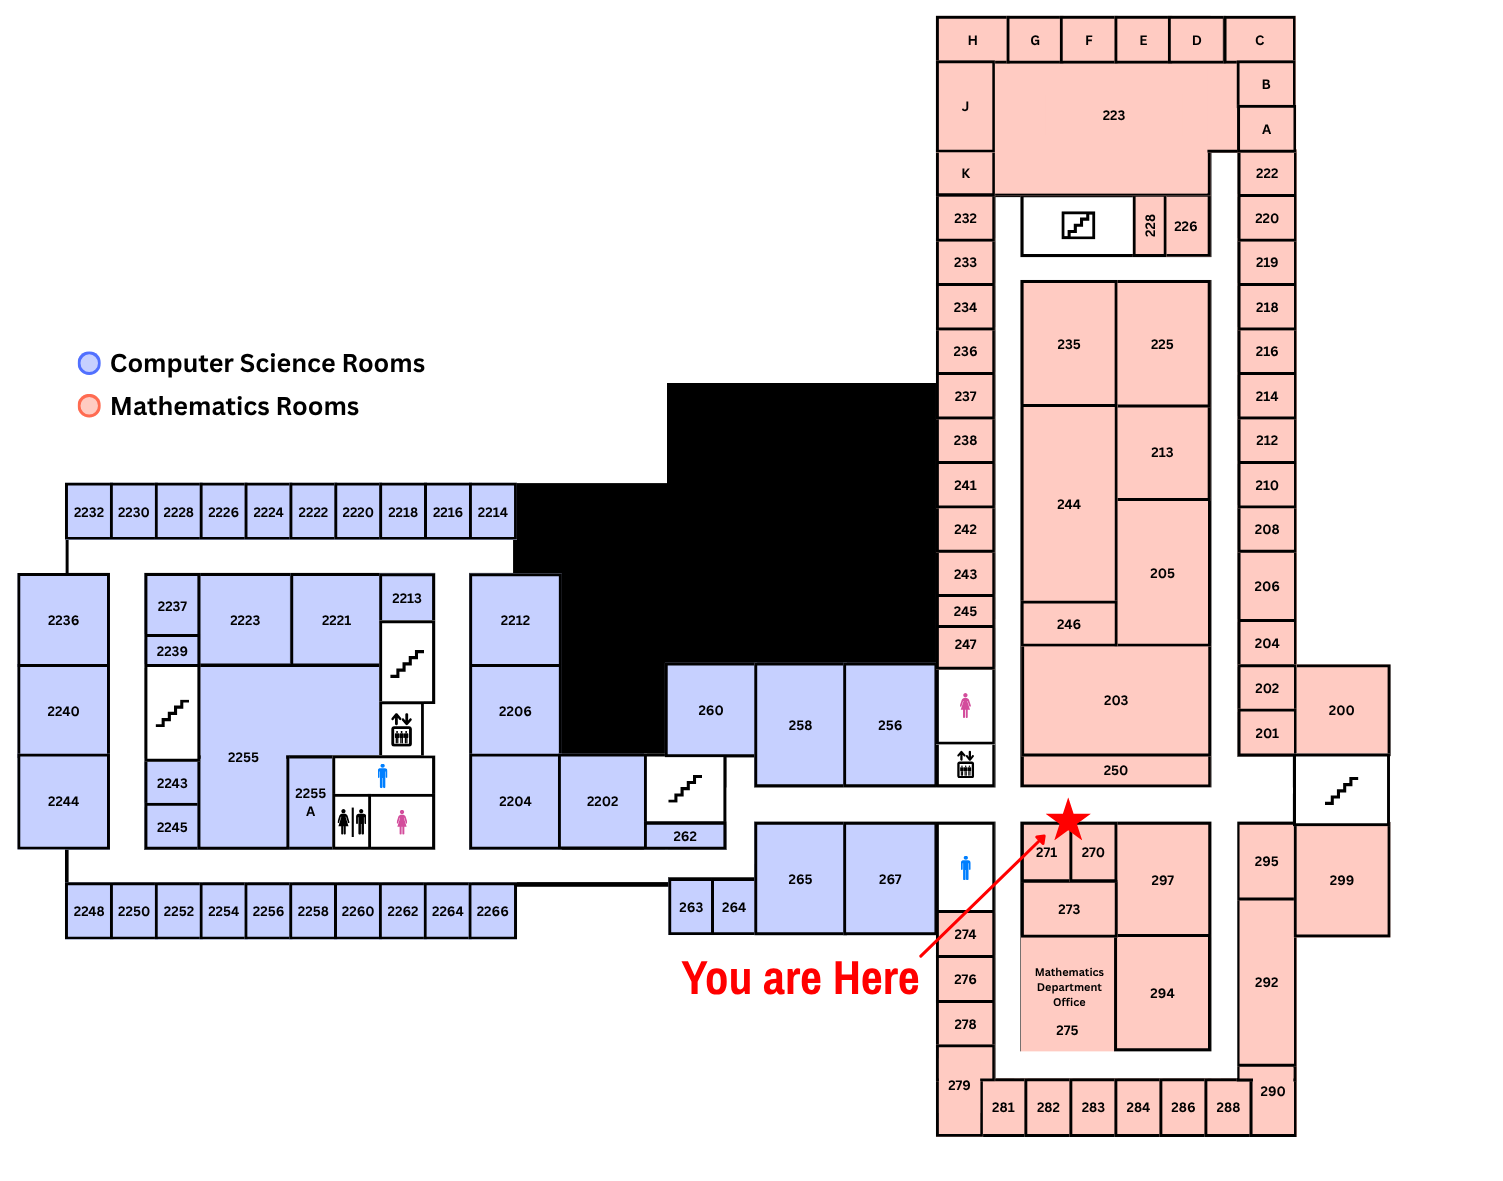
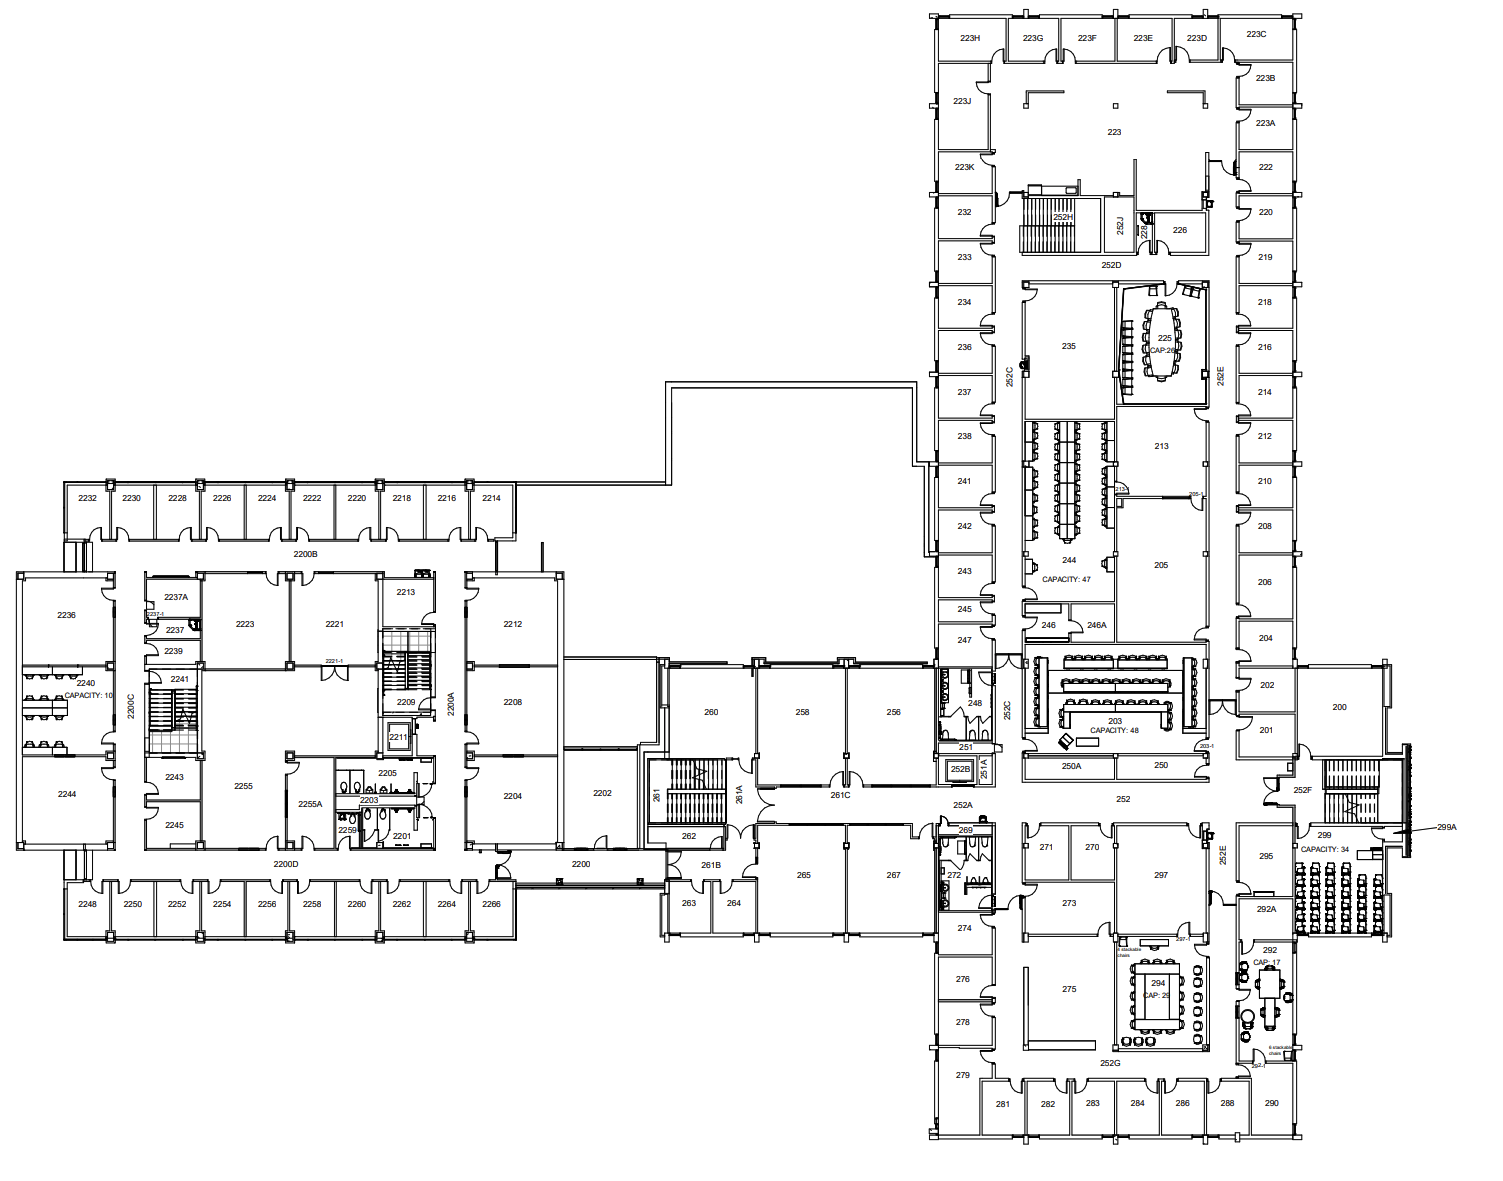
Add files via upload

diff --git a/assets/README.md b/assets/README.md
@@ -7,3 +7,9 @@ Place the three floor-plan images in this folder with these exact names:
 - `building-map-floor-3.png`
 
 The dashboard shows a placeholder until each image is added.
+
+## Faculty room directions
+
+Place each faculty member's room-directions image in this folder as a PNG. Use
+the same filename as the faculty profile HTML, with the `.png` extension; for
+example, `Andrew_Pollington.png` or `Benjamin_Webb.png`.
